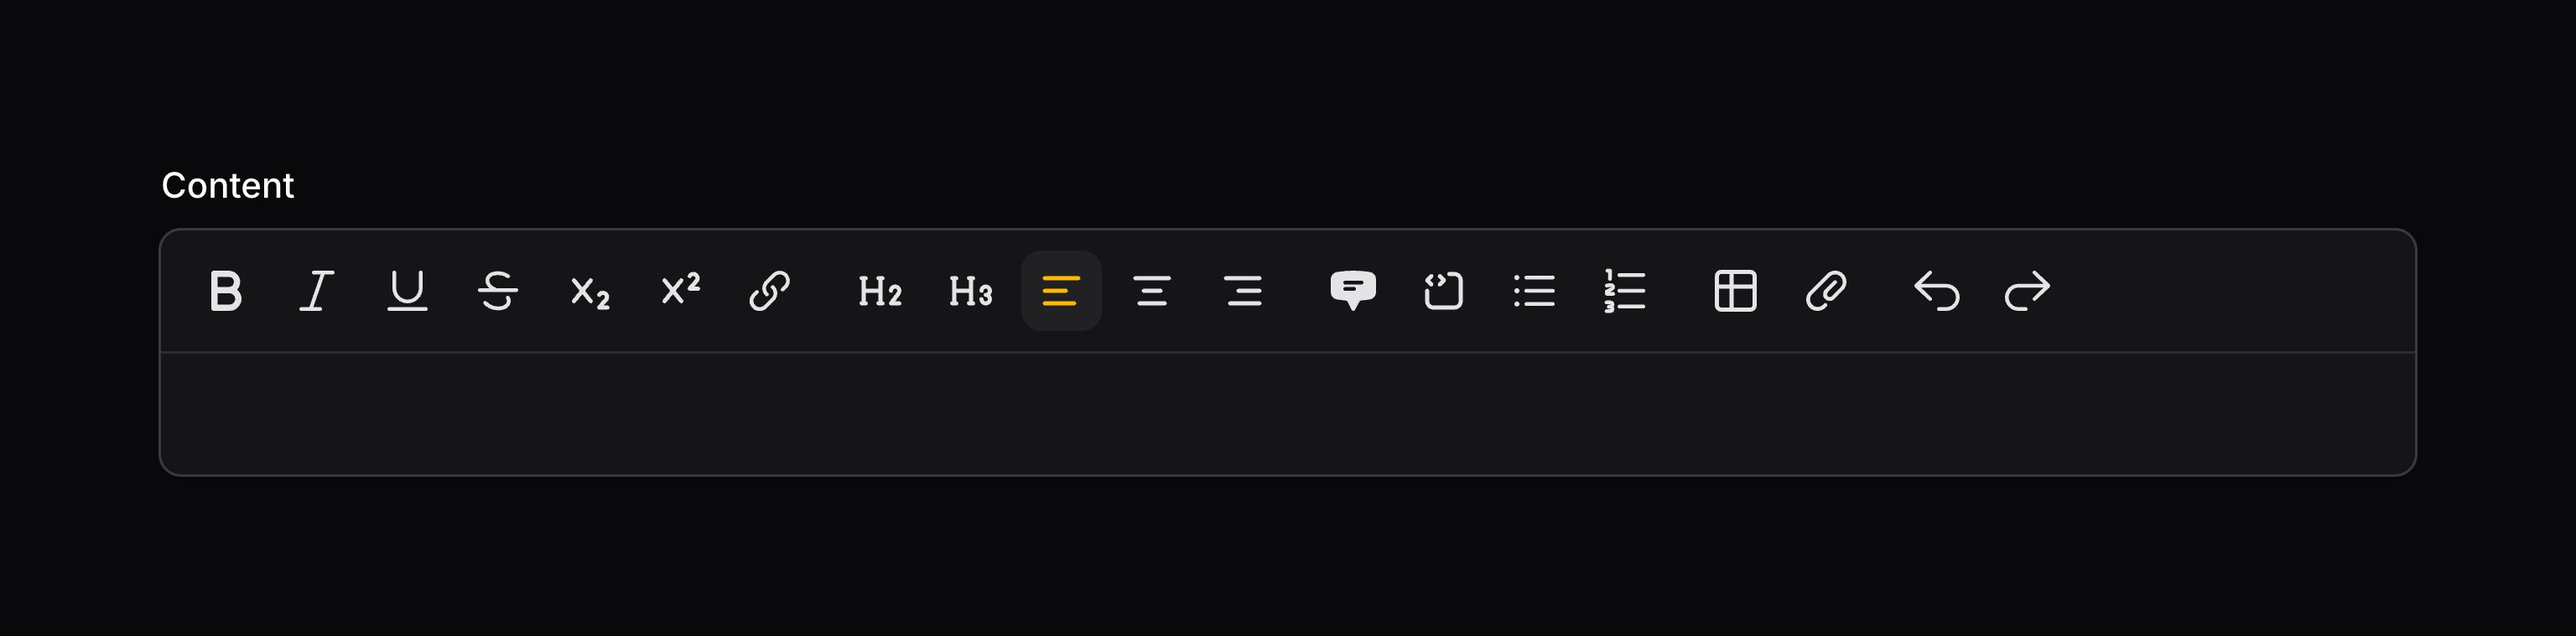
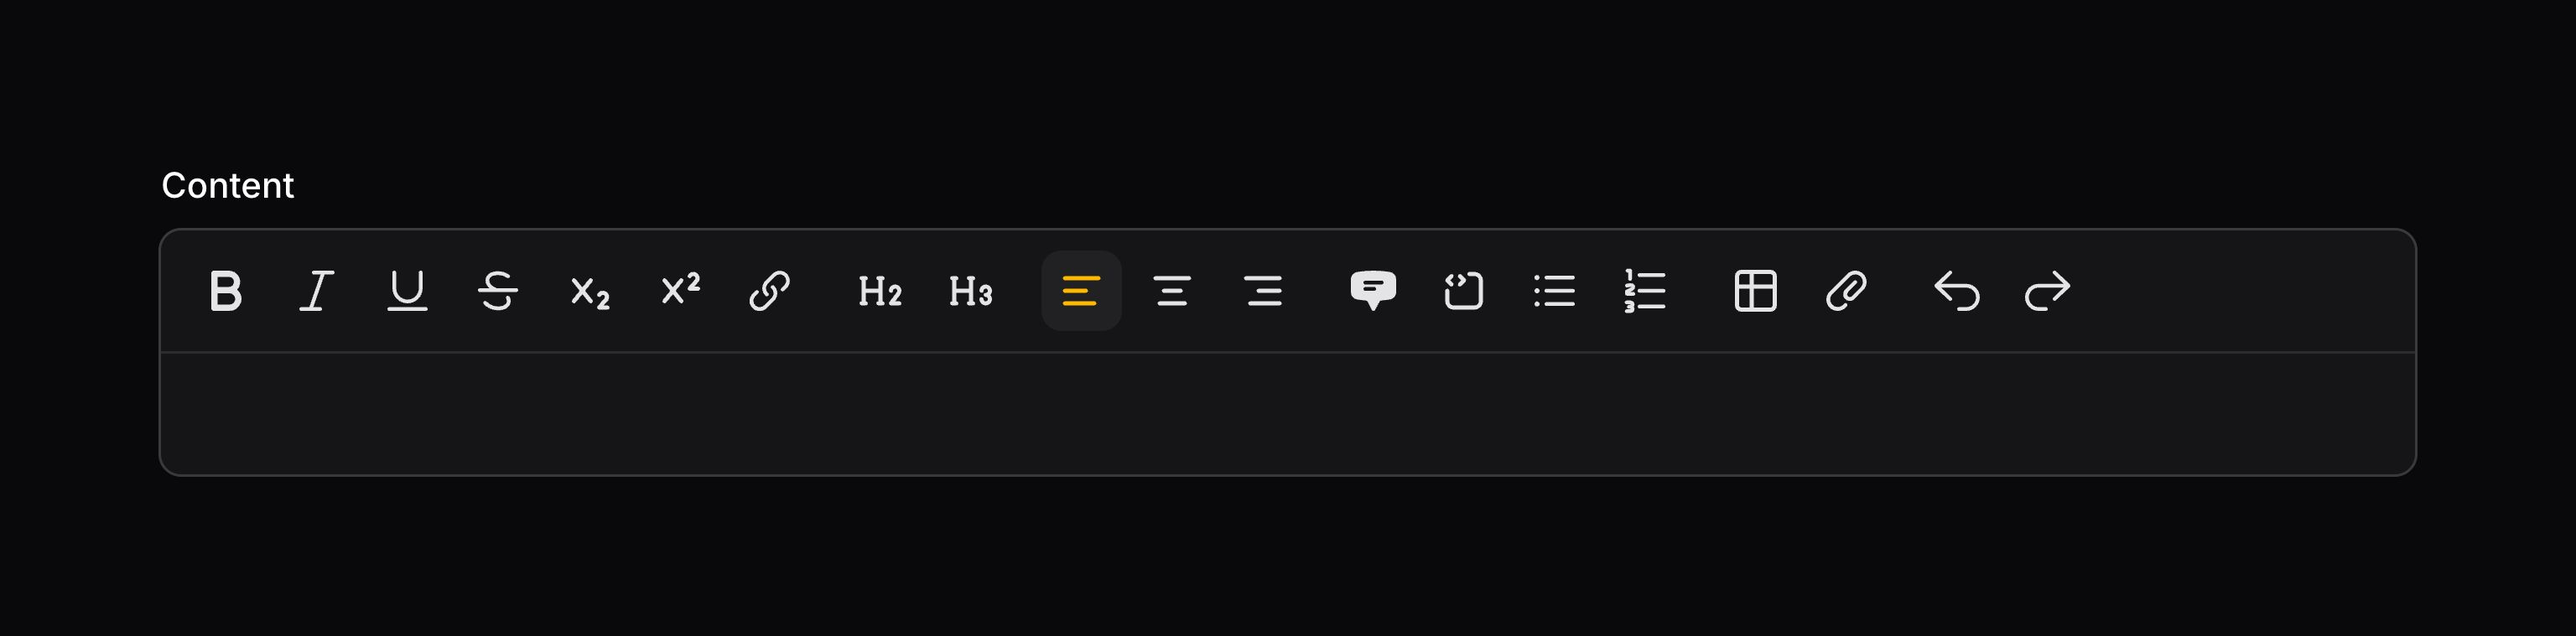
fix: Rich editor alignment tool grouping

Changed region(s): [[0.4062, 0.4242, 0.8125, 0.4848]]

diff --git a/packages/forms/src/Components/RichEditor.php b/packages/forms/src/Components/RichEditor.php
@@ -826,7 +826,8 @@ class RichEditor extends Field implements Contracts\CanBeLengthConstrained
     {
         return [
             ['bold', 'italic', 'underline', 'strike', 'subscript', 'superscript', 'link'],
-            ['h2', 'h3', 'alignStart', 'alignCenter', 'alignEnd'],
+            ['h2', 'h3'],
+            ['alignStart', 'alignCenter', 'alignEnd'],
             ['blockquote', 'codeBlock', 'bulletList', 'orderedList'],
             [
                 'table',
